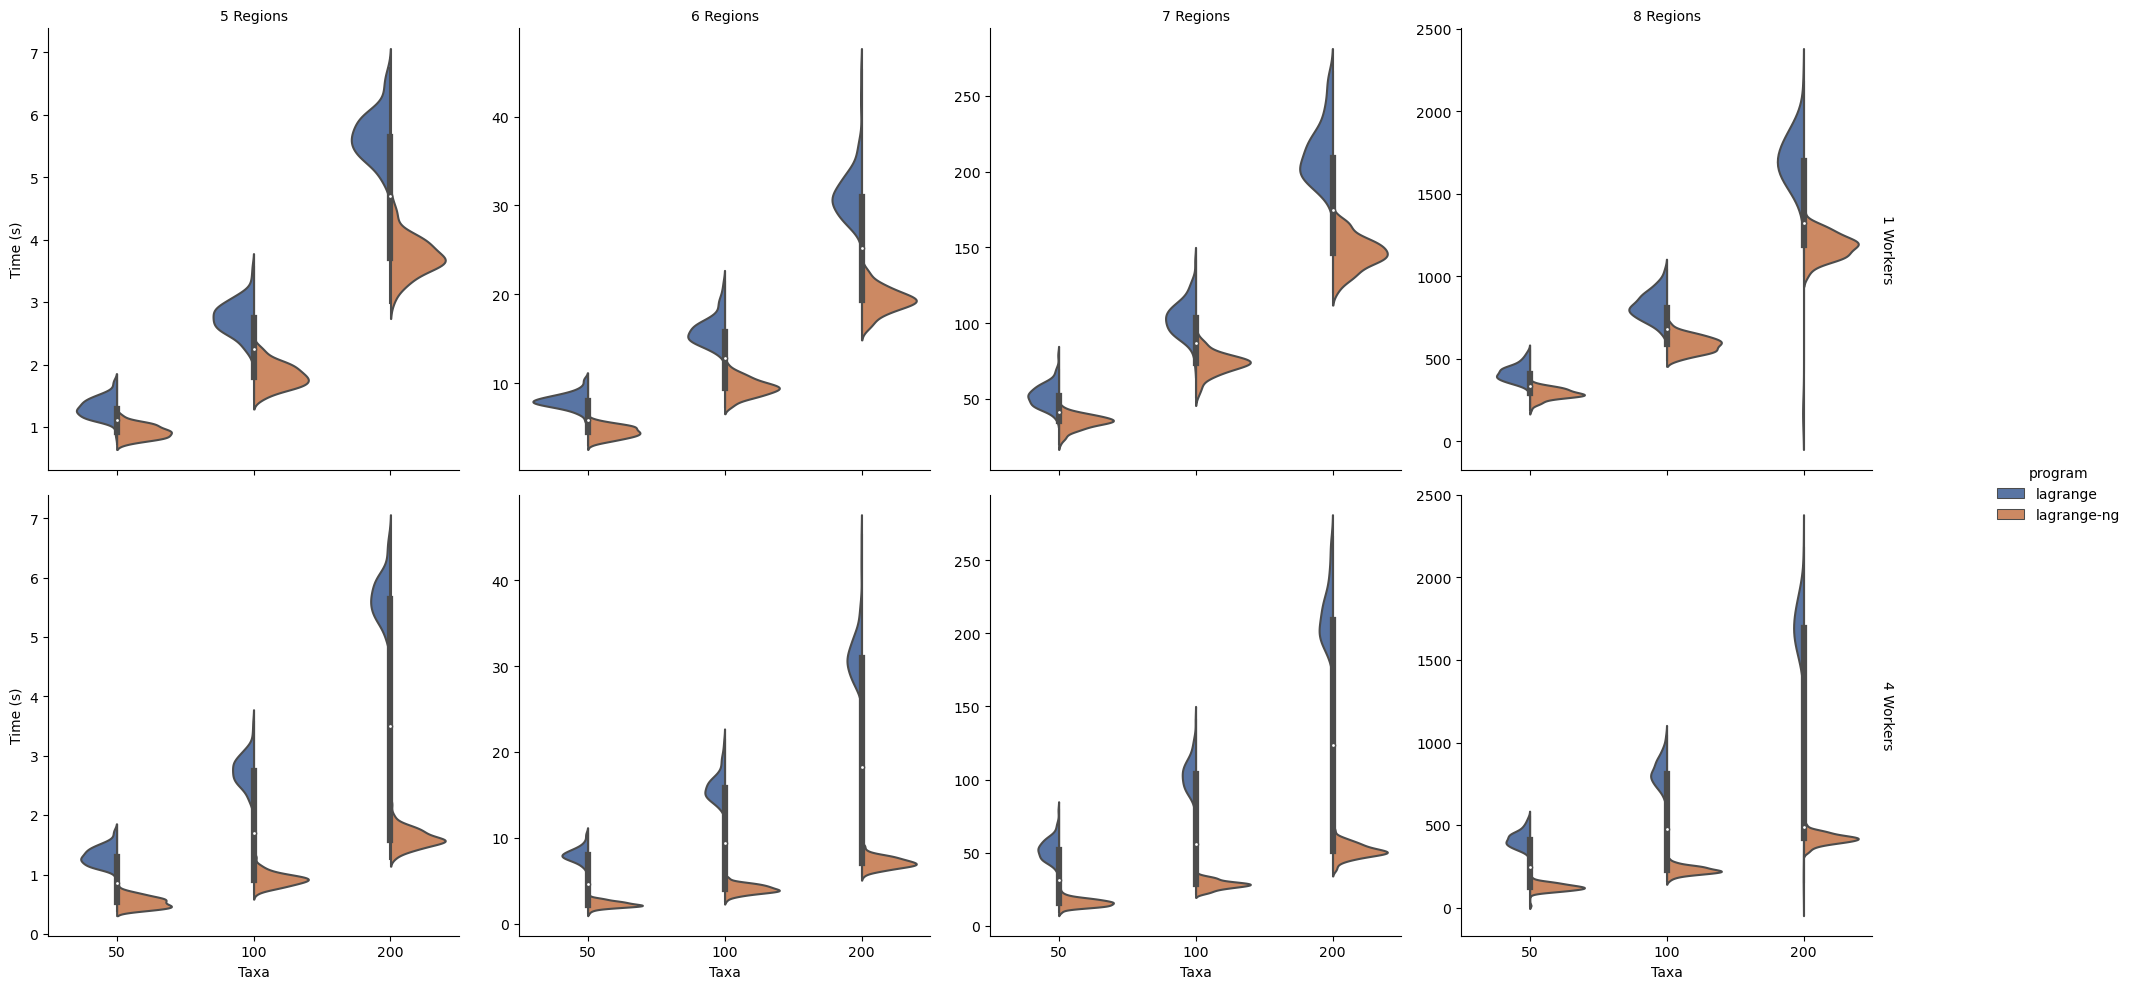
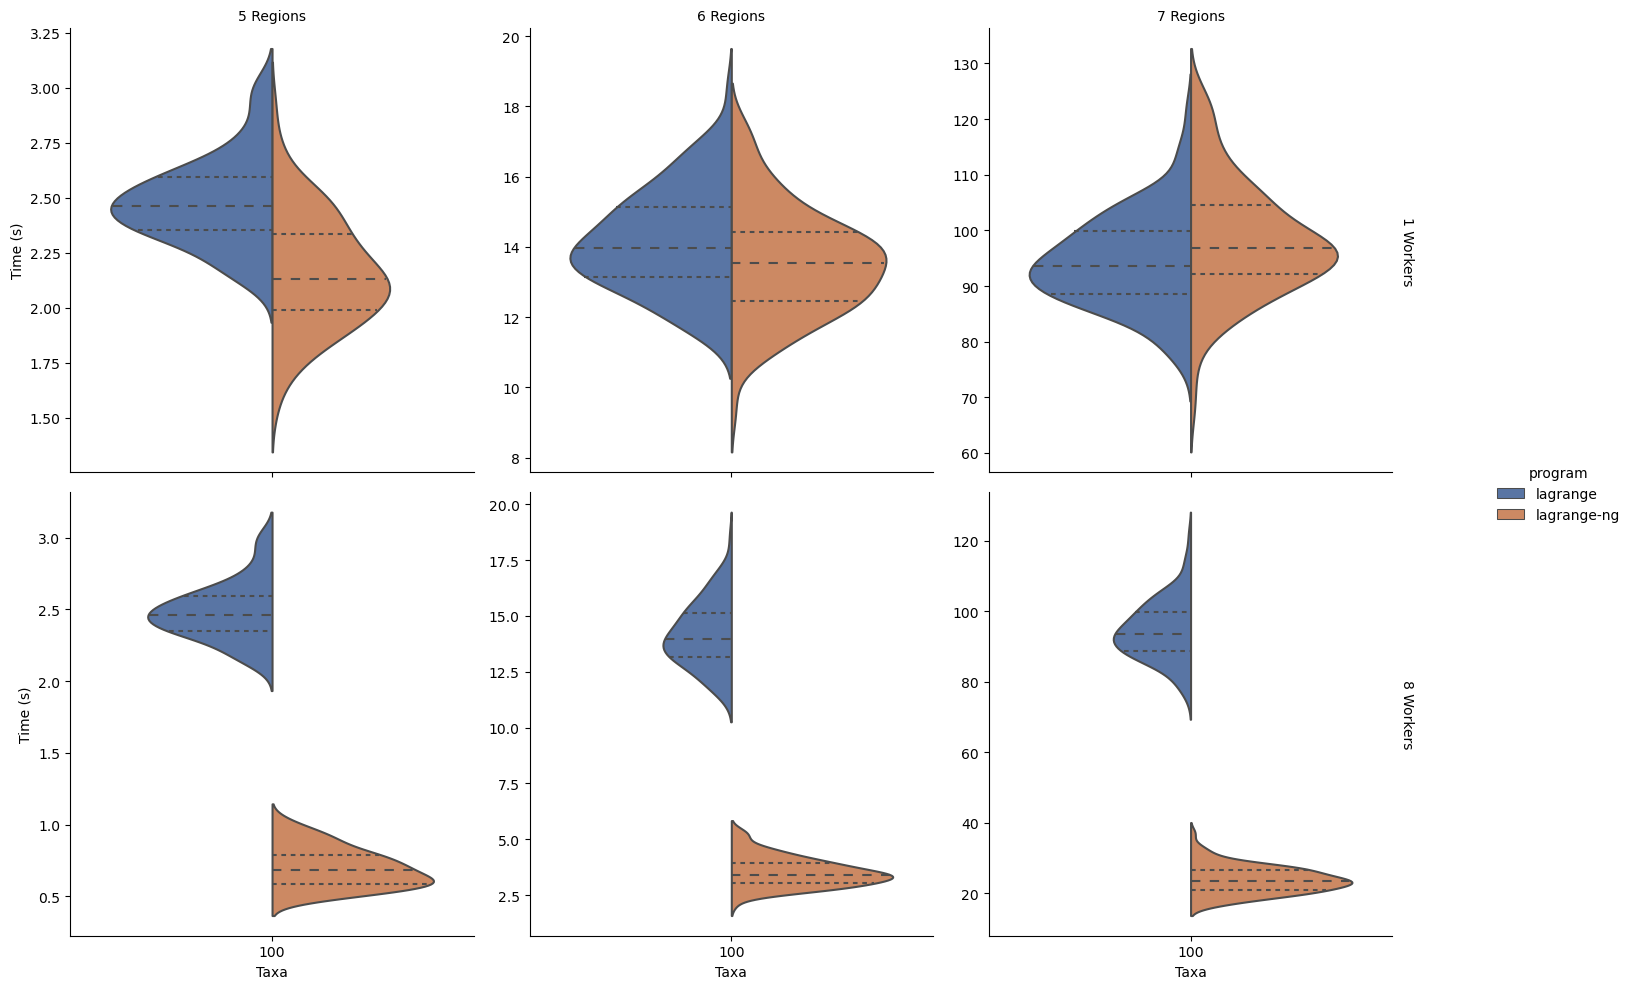
First draft done

diff --git a/main.tex b/main.tex
@@ -78,10 +78,10 @@ same model. Improvements to Lagrange fall into one of 3 broad categories. First 
 computing, via a hybrid task based scheme. The second category includes the use of more efficient numerical methods,
 including a custom tuned version of the matrix exponential. Third and final, there are the general improvements and
 optimizations, which individually don't account for much of the efficiency gain, but together amount to a substantial
-improvement.
+improvement. A thorough explanation of the software can be found in the supplementary material.
 
-Lagrange-ng can be downloaded from github at \url{https://github.com/computations/lagrange-ng}. To build the software,
-the only dependancies are a C++ compiler, and CMake. Optionally, Lagrange-ng can be built with the system versions of
+Lagrange-ng can be downloaded from GitHub at \url{https://github.com/computations/lagrange-ng}. To build the software,
+the only dependencies are a C++ compiler, and CMake. Optionally, Lagrange-ng can be built with the system versions of
 OpenBLAS \citep{openblas} and NLOpt \citep{nelder_simplex_1965, johnson_stevengjnlopt_2021}. Tests and tooling for
 Lagrange-ng are written in Python 3 \citep{python3}, with additional support from Numpy \citep{numpy}, SciPy
 \citep{scipy}, and seaborn \citep{Waskom2021}.
@@ -89,14 +89,25 @@ Lagrange-ng are written in Python 3 \citep{python3}, with additional support fro
 \bigskip
 \section{Performance}\label{sec:performance}
 
+In order to determine the performance of Lagrange-ng relative to the original implementation, we generated a large
+number datasets randomly with a varying number of regions and ran either Lagrange or Lagrange-ng and recorded the
+runtime. Each dataset had 100 taxa, and either 5, 6, or 7 regions. We generated 100 datasets for each parameter set of
+taxa, regions and program. Furthermore, ran an additional series of performance evaluations on Lagrange-ng only with 8
+threads assigned to coarse grained parallelization. The results of this performance are shown in
+Figure~\ref{fig:all-results}.
+
 \begin{figure}
   \noindent
-  \includegraphics[width=\linewidth]{all_results_violin.png}
+  \begin{center}
+    \includegraphics[width=\linewidth]{all_results_violin.png}
+  \end{center}
   \caption{Comparision of runtimes between lagrange (left) and lagrange-ng (right) with lagrange-ng not using workers
-    (top) and using 4 workers (bot). Results were obtained by generating 100 datasets randomly. Each program was given a
+    (top) and using 8 workers (bot). Results were obtained by generating 100 datasets randomly. Each program was given a
     different set of datasets, including Lagrange-ng with and without workers. Note that the original Lagrange was not
     run with workers, as it does not support them. Instead, the data has been replicated for comparison's sake. Time is
-    in seconds. Figure was generated using seaborn \citep{Waskom2021}}
+    in seconds. Figure was generated using seaborn \citep{Waskom2021}
+    \label{fig:all-results}
+  }
 \end{figure}
 
 \bigskip
@@ -107,13 +118,13 @@ Lagrange-ng replaces core numerical routines of Lagrange. Changes in numerical r
 difficult and subtle bugs. We sought to ensure that Lagrange-ng and Lagrange produced the same results. To this end, we
 developed both a pipeline to generate random datasets, run both Lagrange-ng and Lagrange, and compare the results of the
 two programs. To compare results, we developed a distance to evaluate between distributions on trees based on the
-Wasserstein metric CITE. The details of how to calculate the metric are in the Supplementary material. Nonetheless, we
-give a summary here.
+Wasserstein metric \citep{vaserstein_markov_1969}. The details of how to calculate the metric are in the Supplementary
+material. Nonetheless, we give a summary here.
 
 To compute the distance between two ancestral range distributions for a given tree, embed the range into a hypercube
 graph, and then use that graph to compute the Wasserstein metric between the distributions for each node. This metric is
 then normalized to be between 0.0 and 1.0 by dividing by the maximum total distance, and then averaged over all nodes.
-This method has the property that it accurately reflects the transitions between states in the DEC model. 
+This method has the property that it accurately reflects the transitions between states in the DEC model.
 
 We use this metric to ensure that Lagrange-ng obtains the same results for the same input as Lagrange (at least as much
 as possible). We do this by randomly generating datasets (both trees and extant range distributions) for a given number
@@ -126,44 +137,67 @@ the result is ``legitimately'' different, then there should be a strong correlat
 that there is a bug.
 
 We ran this comparison for 100 iterations on datasets created with 10, 50 and 100 taxa, and a number of regions between
-2 and 6. This yielded 15 datasets, and 1,500 total tests. Of these tests, 12 ($0.8\%$) produced distances over
-tolerance. The linear regression on the iterations over tolerance yielded a correlation coefficient of $0.99997$,
-indicating that the failed runs are a product of different optimizations, rather than errors in the code.
-
-\section{Results}\label{sec:Results}
-
-Lagrange-ng is substantially faster datasets with a moderate number of regions ($>5$), even when only using a single
-core. When using multiple cores, the efficiency increases even further to .....
+2 and 6. This yielded 15 datasets, and 1,500 total tests.
 
 \section{Biological Examples}\label{sec:bio-examples}
 
-While we conducted extensive tests on simulated data, it is still important that we ensure Lagrange-ng peforms correctly
-on real world examples. To this end, we have reproduced the results from 3 biogeographical studies that have been
-recently published.
+While we conducted extensive tests on simulated data, it is still important that we ensure Lagrange-ng performs
+correctly on real world examples. To this end, we have reproduced the results from a previous study on sloths from
+\citet{varela_phylogeny_2019}. Additionally, we took the opportunity to reproduce the results using the tools specified
+in the paper as this gave us an opportunity to compare with BioGeoBEARS \citep{biogeobears}, a similar tool.
 
-\begin{table}
-  \caption{Table of biological datasets used to verify Lagrange-ng.}
-  \label{tab:}
-  \begin{center}
-    \begin{tabular}[c]{l|r|r|r}
-      \hline
-      \multicolumn{1}{c|}{\textbf{Dataset Name}} & 
-      \multicolumn{1}{c|}{\textbf{Regions}} & 
-      \multicolumn{1}{c|}{\textbf{Taxa}} & 
-      \multicolumn{1}{c}{\textbf{Source}} \\
-      \hline
-      Sloths & 8 & 64 & \citet{varela_phylogeny_2019}\\
-      \hline
-    \end{tabular}
-  \end{center}
-\end{table}
+In order to reproduce results, we downloaded the supplementary data from the Dryad repository associated with the
+publication. In order to run the analysis for both BioGeoBEARS and Lagrange-ng, we had to modify the data slightly. This
+involved correcting some names so that they matched, and removing the outgroup from the tree. These modifications appear
+to be in line with what the original authors must have done, because the results from both BioGeoBEARS and Lagrange-ng
+matches the results reported in the paper. Both BioGeoBEARS and Lagrange-ng were run with the same dataset, and the same
+number of cores on the same computer.
 
+\section{Results}\label{sec:Results}
+
+The validation of Lagrange-ng, when compared to Lagrange, is very successful, despite heavy modifications of nearly all
+critical code paths. Of the 1,500 tests, 12 ($0.8\%$) produced results with differences over tolerance when computed
+using our novel distance method. The linear regression for the tests over threshold yielded a correlation coefficient of
+$0.99997$, indicating that the failed runs are a product of differing optimizations, and not bugs in the tool.
+
+The ratio between mean runtimes for Lagrange and Lagrange-ng with 1 worker for 5, 6, and 7 regions is 1.15, 1.05, and
+0.96, respectively. The ratio between Lagrange and Lagrange-ng with 8 workers for 5, 6, and 7 regions is 3.56, 4.01, and
+3.97, respectively.
+
+However, Lagarange-ng fairs much better when compared with BioGeoBEARS. On the biological example, Lagrange-ng computed
+the result in about $1$ minute, while BioGeoBEARS took about $24$ minutes to analyze the data. BioGeoBEARS and
+Lagrange-ng inferred different optima for model parameters, with BioGeoBEARS achieving a slightly better likelihood
+score. However, this hasn't affected the qualitative results when comparing between the two tools. This is to say,
+BioGeoBEARS and Lagrange-ng both agree on the most likely distribution for every node.
+
+\section{Discussion}\label{sec:Discussion}
+
+We have shown that computation of biogeographical models can be greatly accelerated without a loss in quality of
+results. A 4 fold increase in speed over the original implementation, and a 24 fold increase in speed over BioGeoBEARS
+is very good. However, the parallel efficiency of 0.5 is disappointing. However, as detailed in the Supplementary
+Material, the efficiency increases as the number of taxa increases. This means that as datasets get more taxa rich, and
+run-times increase, Lagrange-ng will utilize it's computational resources more efficiently.
+
+Future work on Lagrange-ng includes extending the range of models that can be computed to the DIVA and BAYAREA family of
+models CITE THESE MODELS. Additionally, there is further work to be done optimizing the execution of the current models.
+There are three areas in which the current performance can be improved upon, though we expect the benefits to be
+marginal in most cases.
+
+The first is to do a thorough exploration of the available BLAS implementations to determine which has the best
+performance for this particular use case. While developing Lagrange-ng, we tried many different BLAS implementations,
+but we did not do a complete investigation as to which had the best performance for the expected datasets. The second is
+to further refine the matrix exponential routine. While we settled on a particular implementation with good performance,
+there are other, more exotic methods which might yield better performance. Third is to further refine the work
+allocation for the coarse grained parallelization. The current method of assigning tasks is quite na\"ive, and can be
+improved upon by becoming aware of which nodes are "most blocking" of other tasks. It might be possible to devise an
+algorithm that can minimize the "task starved" period of computation.
 
 \bigskip
 
 \section{Availability}\label{sec:availability}
 
-The software, tools, and data used for this paper are available online at \url{https://github.com/computations/lagrange-ng}.
+The software, tools, and data used for this paper are available online at
+\url{https://github.com/computations/lagrange-ng}.
 
 \section{Supplementary Material}
 

diff --git a/supplement.tex b/supplement.tex
@@ -47,13 +47,6 @@
 \begin{document}
 \maketitle
 
-\begin{abstract}
-\end{abstract}
-
-\keywords{First keyword \and Second keyword \and More}
-
-\section{Introduction}
-
 \section{Background}
 
 Computation of the likelihood of a particular set of parameters under the DEC model proceeds in a fashion similar to the
@@ -74,7 +67,7 @@ computing
   \item The right and left rate matrices: $Q_r$, $Q_l$,
   \item The right and left transition matrices: $P_r = e^{Q_r}$ and $P_l = e^{Q_l}$ respectively,
   \item The result of the Markov process along the left and right branches: $w_r = P_r v_r$ and $w_l = P_l v_l$
-    respectively,
+        respectively,
   \item The weighted combination of $w_r$ and $w_l$, $v_t$.
 \end{enumerate}
 Together, these operations make up a single task for a worker. However, as it can be seen above, the task can be
@@ -111,7 +104,7 @@ operations show a larger value. If this is the case, then the dependant operatio
 operation is ready.
 
 By carefully dividing the tasks into operations, merging identical operations between tasks, and enforcing a total order
-on the computation of operations, we can implement an extremely effective task based parallelization scheme. 
+on the computation of operations, we can implement an extremely effective task based parallelization scheme.
 
 \begin{figure}
   \centering
@@ -162,7 +155,7 @@ distance between distributions. This will indeed produce a metric, but it has so
 example, suppose we have a distribution over 5 regions: $A, B, C, D$, and $E$ where $d_1(n, AB) = 1.0$. If we use the
 cosine distance to compute the distance between $d_1(n)$ and $d_2(n)$ where $d_2(n, ABC) = 1.0$, then the resulting
 distance will be 1.0, as the vectors are orthogonal. However, this is the same distance as if instead $d_2(n, CDE) =
-1.0$ as it is also orthogonal to $d_1(n)$. But, there is a very real sense in which the prediction $AB$ is much closer
+  1.0$ as it is also orthogonal to $d_1(n)$. But, there is a very real sense in which the prediction $AB$ is much closer
 to $ABC$ than $CDE$. In the first case, the predicted ranges differ by only one region, whereas in the second case, the
 predicted ranges differ by \textit{every} region.
 
@@ -176,7 +169,7 @@ model\footnotemark.
   of the edges, which means that transitions \textit{out} of the extinct state are valid. While conceptually this is a
   problem, for the purposes of computing a distance, it will not affect the results, as taking the path through the
   extinction state is equivalent to taking any other path of equal distance, of which there necessarily be due to the
-nature of the hypercube.}
+  nature of the hypercube.}
 
 Once the distributions are embedded in a hypercube graph, we can compute the distance between each distribution as the
 ``amount of effort required to turn one distribution into the other''. This is the Wasserstein metric, also known as the
@@ -189,9 +182,9 @@ minimum distance requires the use of an optimization routine.
 To find the minimum distance, we elected to express the problem as a linear programming problem. Specifically, we solve
 
 \begin{align}
-&\min_x \textstyle \sum_i x_i \nonumber \\
-\text{such } &\text{that } Ax = b\\
-             & x_i \geq 0 \nonumber
+               & \min_x \textstyle \sum_i x_i \nonumber \\
+  \text{such } & \text{that } Ax = b                    \\
+               & x_i \geq 0 \nonumber
 \end{align}
 
 Where $A$ is the constraint matrix induced by the hypercube, and $b = d_1(n) - d_2(n)$ I.E. difference between the two
@@ -200,9 +193,9 @@ columns. The rows represent the nodes of the graph, and the columns represent th
 each direction of flow. The entries of $A$ are defined as:
 \begin{equation}
   A(n, e) = \begin{cases}
-    1 &\text{If } e \text{ points to } n\\
-    -1 &\text{If } e \text{ points away from } n\\
-    0 &\text{Otherwise.}
+    1  & \text{If } e \text{ points to } n        \\
+    -1 & \text{If } e \text{ points away from } n \\
+    0  & \text{Otherwise.}
   \end{cases}
 \end{equation}
 Please note that there are only $n-1$ rows. This is because the final row will just be expressible as a linear
@@ -214,18 +207,18 @@ As an example, the distance between the distributions in Figure~\ref{fig:distrib
 matrix
 \begin{equation*}
   A = \begin{pmatrix}
-  1 & 0 & 1 & 0 & 0 & 0  \\
-  -1 & -1 & 0 & 0 & 1 & 0 \\
-  0 & 0 & -1 & -1 & 0 & 1\\
+    1  & 0  & 1  & 0  & 0 & 0 \\
+    -1 & -1 & 0  & 0  & 1 & 0 \\
+    0  & 0  & -1 & -1 & 0 & 1 \\
   \end{pmatrix}
 \end{equation*}
 and the vector
 \begin{equation*}
-b = \begin{pmatrix}
-  0 \\
-  0.25\\
-  0.25\\
-\end{pmatrix}.
+  b = \begin{pmatrix}
+    0    \\
+    0.25 \\
+    0.25 \\
+  \end{pmatrix}.
 \end{equation*}
 
 Finally, in order to normalize the distance, we divide the result by maximum possible path length, which happens to be
@@ -252,9 +245,9 @@ the number of \textit{regions}.
     \includegraphics[width=0.95\textwidth]{figures/example-earthmovers.pdf}
   \end{center}
   \caption{Distributions from Figure~\ref{fig:distributions-example} with the Wasserstein metric applied. On the left,
-    we choose to move $0.25$ units of ``mass'' from node \texttt{10} to node \texttt{01}. This requires 2 transitions, shown
-  in blue, for a total of $0.5$ distance. On the right, we choose to transfer mass from node \texttt{01} to node
-\texttt{10}, which yields the same result.}
+    we choose to move $0.25$ units of ``mass'' from node \texttt{10} to node \texttt{01}. This requires 2 transitions,
+    shown in blue, for a total of $0.5$ distance. On the right, we choose to transfer mass from node \texttt{01} to node
+    \texttt{10}, which yields the same result.}
   \label{fig:earthmovers-example}
 \end{figure}
 
@@ -262,14 +255,72 @@ the number of \textit{regions}.
 \section{Experiments}
 \label{sec:experiments}
 
-\section{Results}
-\label{sec:results}
+\subsection{Investigating the Optimal Threading Configuration}
+
+Because Lagrange-ng implements both course and fine grained parallelization, we need to investigate the optimal
+threading configuration for a given dataset. To this end, we generated datasets with 50 or 100 taxa and 5, 6, 7, or 8
+regions. This yielded a total of 8 dataset configurations. In addition to the dataset configurations, we also generated
+the 6 threading configurations with a total number of 32 threads. For each of these dataset and threading
+configurations, we ran 100 trials and recorded the times. The results from these runs can be seen in
+Figure~\ref{fig:threading-configurations}.
+
+\begin{figure}
+  \begin{center}
+    \includegraphics[width=0.95\textwidth]{figures/threading_violin.png}
+  \end{center}
+  \caption{Plot of the threading configurations on various dataset sizes. 100 datasets were generated for each Taxa,
+    Region, and Threading Configuration parameters. Each dataset was generated randomly, similar to how datasets are
+    constructed in the rest of this work.}
+  \label{fig:threading-configurations}
+\end{figure}
+
+\subsection{Determining the parallel efficiency of Lagrange-ng}
+
+Given the results from the previous experiment to determine the optimal threading configuration, we choose to determine
+the parallel efficiency of the Lagrange-ng using only workers. This is to say, we only increased the number of threads
+allocated to the coarse grained tasks. To this end we tested Lagrange-ng with 1, 4, 8, 16, and 32 threads by generating
+100 datasets for each threading configuration. We did this with datasets with 6 regions and 100 and 500 taxa. We
+computed the mean of the execution times for the runs with a single thread, and used this value to compute the
+realized speedups.
+
+\begin{figure}
+  \begin{center}
+    \includegraphics[width=0.95\textwidth]{figures/peff_100_taxa.png}
+  \end{center}
+  \caption{Parallel efficiency plot for a datasets with 100 taxa and 6 regions. Please notice the log-log scaling. The
+    actual values plotted are 3.0, 4.1, 4.7, 4.8 for 4, 8, 16, 32 threads, respectively. The ratio of the realized
+    speedup to the optimal speedup is 0.742873, 0.513696, 0.295814, 0.149044 for 4, 8, 16 and 32 threads respectively.}
+  \label{fig:peff-100-taxa}
+\end{figure}
+
+\begin{figure}
+  \begin{center}
+    \includegraphics[width=0.95\textwidth]{figures/peff_500_taxa.png}
+  \end{center}
+  \caption{Parallel efficiency plot for a datasets with 500 taxa and 6 regions. Please notice the log-log scaling. The
+    actual values plotted are 3.3, 5.5, 7., 9.3 for 4, 8, 16, and 32 threads, respectively. The ratio of the realized
+    speedup to the optimal speedup is 0.83, 0.69, 0.49, 0.29 for 4, 8, 16, and 32 threads, respectively.}
+  \label{fig:peff-100-taxa}
+\end{figure}
+
 
 \section{Discussion}
 \label{sec:discussion}
 
-\section{Conclusion}
-\label{sec:conclusion}
+Regarding the optimal threading configuration, Figure~\ref{fig:threading-configurations} shows that allocating all the
+threads to workers is normally optimal. Occasionally, allocating 2 threads per worker is slightly faster. This is
+slightly surprising, and might indicate that the linear algebra library used has issues with lock contention. If this is
+the case, then changing the library might improve results. However, there are still sequential parts of the likelihood
+computation which does not benefit from the fine grained parallelization, so this will have improvement a limit.
+
+The threading efficiency of Lagrange-ng's coarse grained parallelization ranges between  0.74 and 0.14. This is
+expected, as the method of parallelization is based on the tree topology. Children nodes must be evaluated before parent
+nodes can be evaluated, which leads to a dependencies which prevent perfect parallel efficiency from being achieved.
+This means that, for every likelihood evaluation, there is a period where there is less work available than threads. In
+this case the threads idle, and do no meaningful work. However, we expect that as the number of taxa grows, the
+efficiency of this method should increase, as the proportion of time spent in this "work starved" period is lower.
+Results from the threading configuration experiments suggest that this can efficiency can be improved further on some
+datasets by allocating 2 threads per worker.
 
 \bibliographystyle{acm}
 \bibliography{references}
